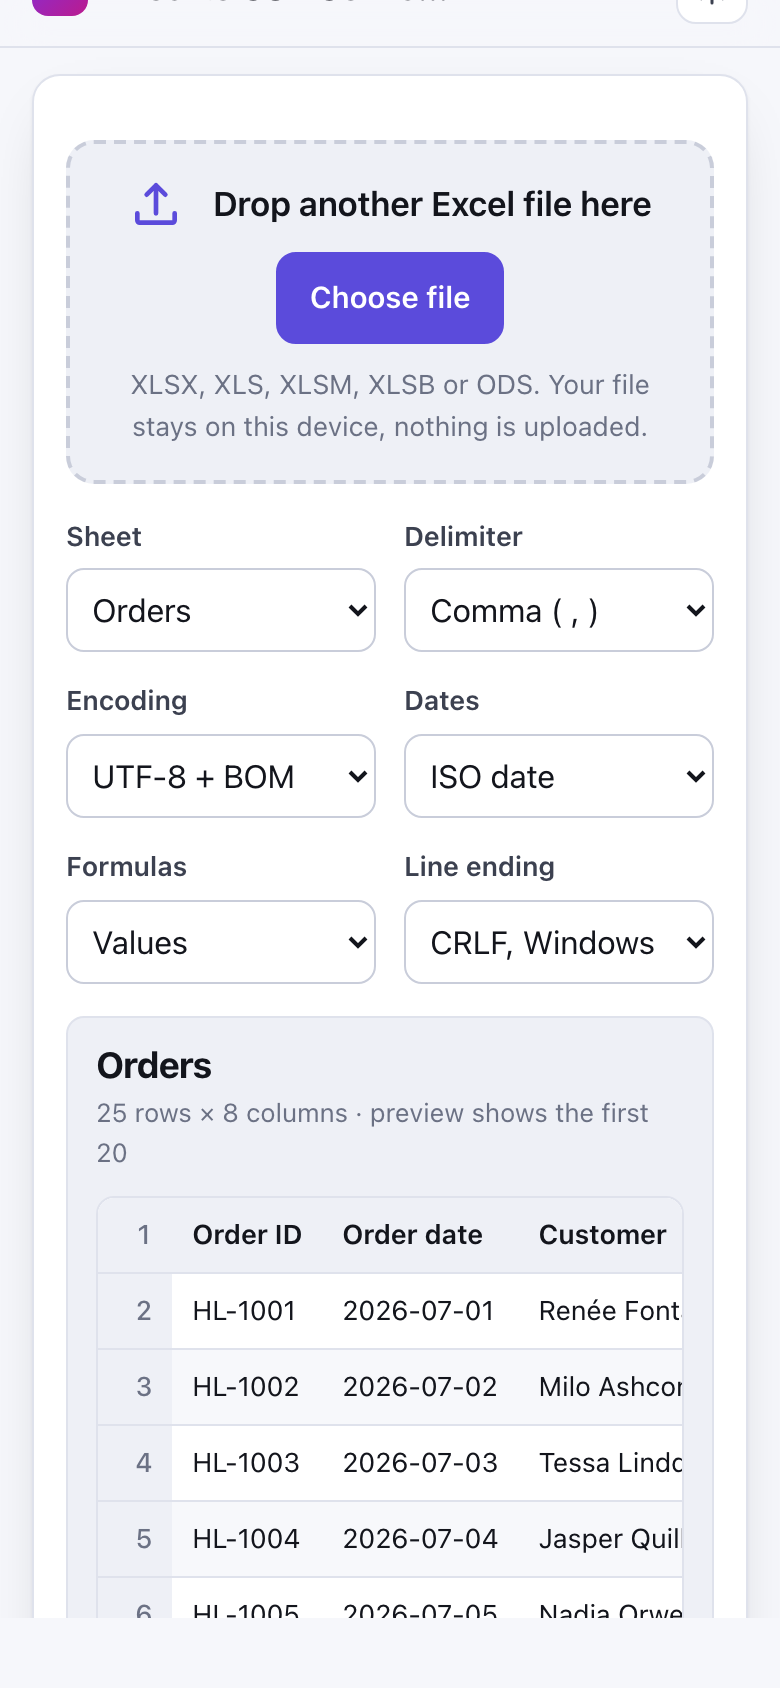
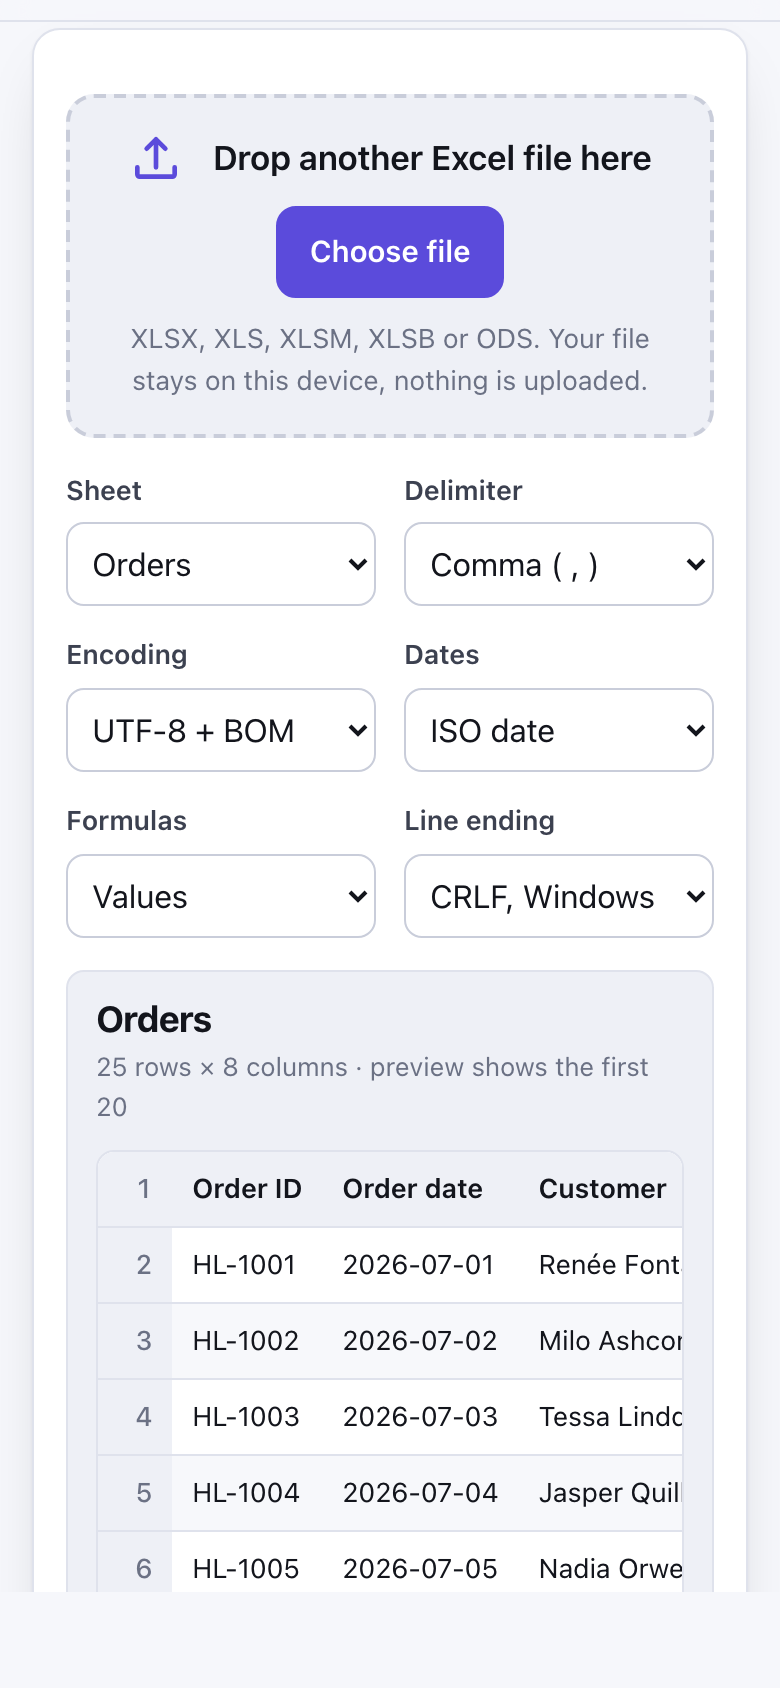
Update tool, tests and docs

diff --git a/tests/smoke.spec.js b/tests/smoke.spec.js
@@ -107,7 +107,7 @@ test.describe('Excel to CSV Converter', () => {
     await expect.poll(() => page.evaluate(() => navigator.clipboard.readText())).toContain('SKU,Product,Price');
   });
 
-  test('edge cases: quoting, merged cells, hidden sheet, formulas left alone, trailing rows trimmed', async ({ page }) => {
+  test('edge cases: quoting, merged cells, hidden sheet, formulas left alone, long numbers kept, trailing rows trimmed', async ({ page }) => {
     await open(page, 'edge-cases.xlsx');
     await expect(page.locator('#sheet option')).toHaveText(['Visible', 'Archive (hidden)']);
     const file = await download(page);
@@ -120,7 +120,13 @@ test.describe('Excel to CSV Converter', () => {
       'Leading equals,=not a formula',
       'Sum,5',
       'Arrival,2026-03-09 12:00:00',
+      'Barcode,9780306406157',
+      'Phone,447123456789',
+      'Ratio,0.3',
     ].join('\r\n'));
+    // General-format numbers keep every digit in the preview too, never scientific notation.
+    await expect(page.locator('#csv-preview')).toContainText('9780306406157');
+    await expect(page.locator('#csv-preview')).not.toContainText('E+');
     await page.selectOption('#sheet', 'Archive');
     await expect(page.locator('#result-card .chip')).toHaveText('hidden sheet');
   });

diff --git a/csv-core.js b/csv-core.js
@@ -78,9 +78,21 @@
       const iso = isoDate(cell, date1904);
       if (iso) return iso;
     }
+    if (cell.t === 'n' && isGeneral(cell.z)) return rawNumber(cell.v);
     if (cell.w != null) return String(cell.w);
     if (cell.t === 'b') return cell.v ? 'TRUE' : 'FALSE';
     return String(cell.v);
+  }
+
+  const isGeneral = (z) => !z || String(z).toLowerCase() === 'general';
+
+  // General-format numbers carry no display rule, so write the stored value in full. The formatted text
+  // (cell.w) imitates Excel's narrow-column display and turns 9780306406157 into 9.78031E+12, which
+  // silently destroys barcodes, phone numbers and account numbers. Excel keeps 15 significant digits, so
+  // rounding there also hides binary noise such as 0.30000000000000004.
+  function rawNumber(v) {
+    if (typeof v !== 'number' || !Number.isFinite(v)) return String(v);
+    return String(Number(v.toPrecision(15)));
   }
 
   // Bounds of the sheet with empty trailing rows and columns removed (formatting can stretch !ref far

diff --git a/tests/fixtures/make-fixtures.js b/tests/fixtures/make-fixtures.js
@@ -75,14 +75,17 @@ function edgeWorkbook() {
     ['Leading equals', '=not a formula'],
     ['Sum', null],
     ['Arrival', serial(2026, 3, 9) + 0.5],
+    ['Barcode', 9780306406157],
+    ['Phone', 447123456789],
+    ['Ratio', 0.1 + 0.2],
   ]);
   ws['!merges'] = [{ s: { r: 1, c: 0 }, e: { r: 1, c: 1 } }];
   ws.B6 = { t: 'n', v: 5, f: '2+3' };
   ws.B7.z = 'yyyy-mm-dd hh:mm';
   // Trailing empty rows that only carry an empty value (as formatting leftovers do).
-  ws.A9 = { t: 's', v: '' };
-  ws.A10 = { t: 'z' };
-  ws['!ref'] = 'A1:C10';
+  ws.A12 = { t: 's', v: '' };
+  ws.A13 = { t: 'z' };
+  ws['!ref'] = 'A1:C13';
   XLSX.utils.book_append_sheet(wb, ws, 'Visible');
   XLSX.utils.book_append_sheet(wb, XLSX.utils.aoa_to_sheet([['secret'], ['value']]), 'Archive');
   wb.Workbook = { Sheets: [{ Hidden: 0 }, { Hidden: 1 }] };

diff --git a/sw.js b/sw.js
@@ -1,6 +1,6 @@
 // sw.js — offline support. VERSION and ASSETS are generated by the factory from the real file list
 // (web_build.finalize_sw) right before the tests run; the builder does not edit this file.
-const VERSION = 'b1c6537aa3';
+const VERSION = '74d4381472';
 const ASSETS = ["./", "./app.js", "./csv-core.js", "./icon.svg", "./icons/icon-192.png", "./icons/icon-512.png", "./index.html", "./manifest.webmanifest", "./site.js", "./styles.css", "./vendor/xlsx/xlsx.full.min.js", "./worker.js"];
 const CACHE = `tool-${VERSION}`;
 
